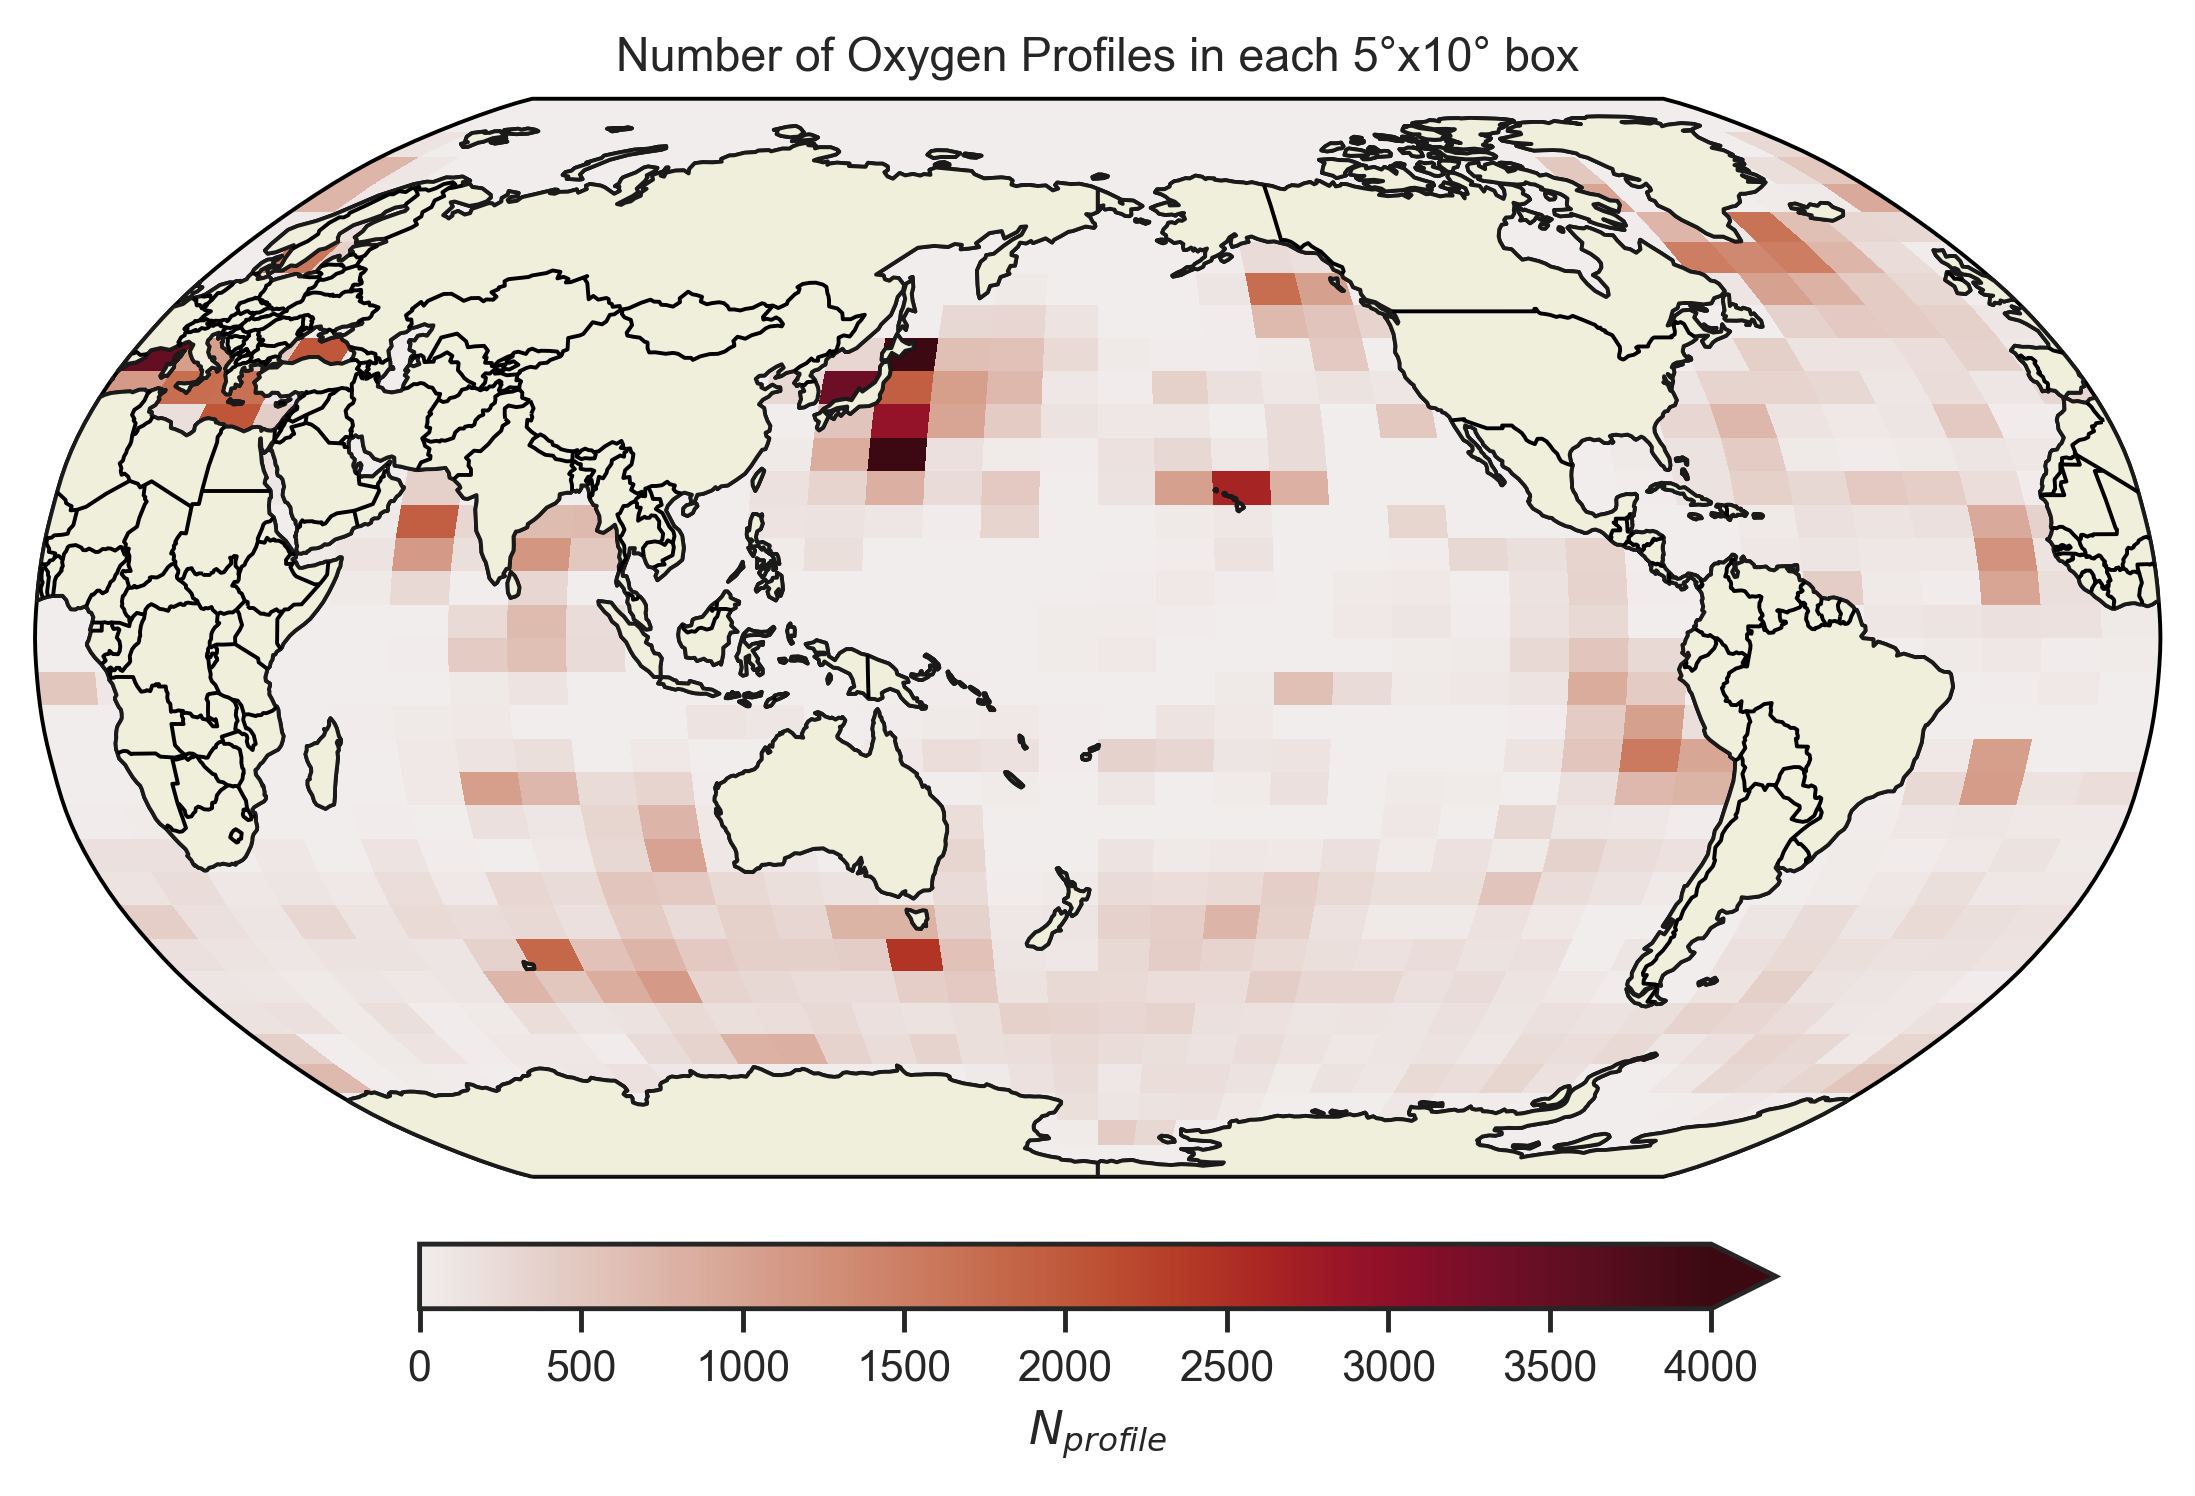
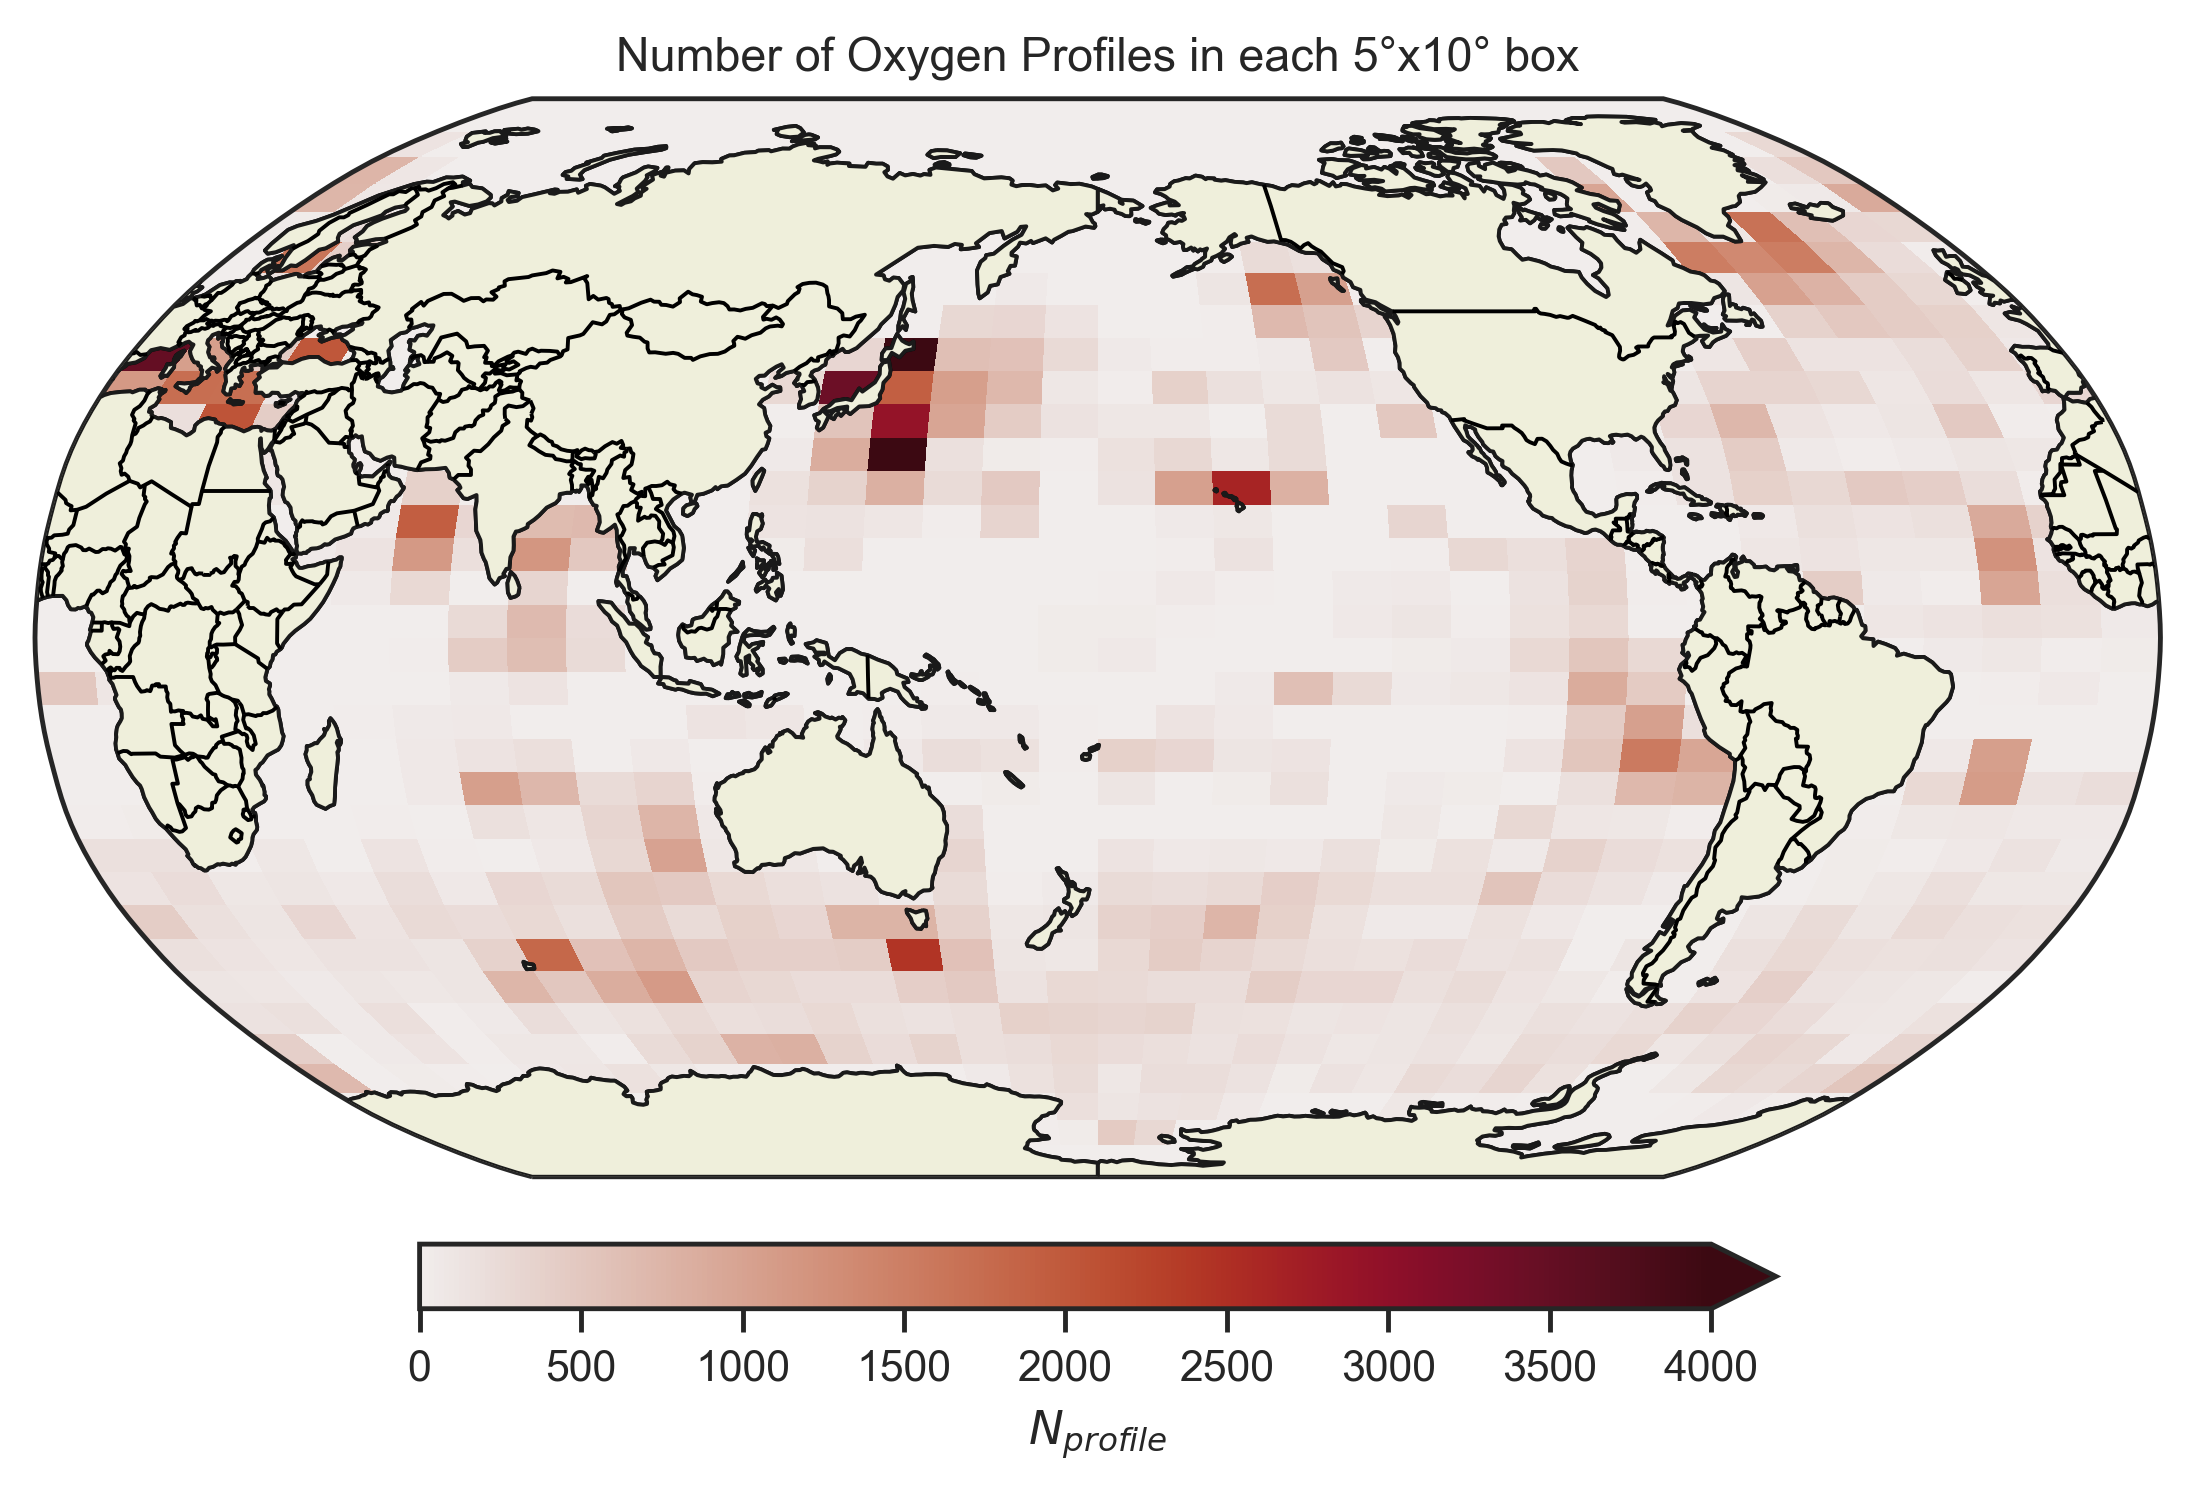
deleted unused maps, compare > 2010 profiles

diff --git a/src/map_oxygen_profiles.py b/src/map_oxygen_profiles.py
@@ -17,6 +17,7 @@ bp = bgc.get_index()
 bp = bp[bp.parameters.notna()]
 index = ['DOXY' in parameter_list for parameter_list in bp.parameters]
 doxy = bp[index]
+doxy = doxy[doxy.date >= 2.010e13]
 
 lat_bin_size = 5
 lon_bin_size = 10
@@ -39,4 +40,4 @@ plt.colorbar(h[-1], ax=ax, orientation='horizontal', extend='max', shrink=0.5, p
 
 ax.set_title('Number of Oxygen Profiles in each {:d}{}x{:d}{} box'.format(lat_bin_size, chr(176), lon_bin_size, chr(176)))
 
-plt.savefig(Path('figures/argo_oxygen_profiles_{:d}x{:d}.png'.format(lat_bin_size, lon_bin_size)), dpi=350, bbox_inches='tight')
+plt.savefig(Path('../figures/argo_oxygen_profiles_post2010_{:d}x{:d}.png'.format(lat_bin_size, lon_bin_size)), dpi=350, bbox_inches='tight')
